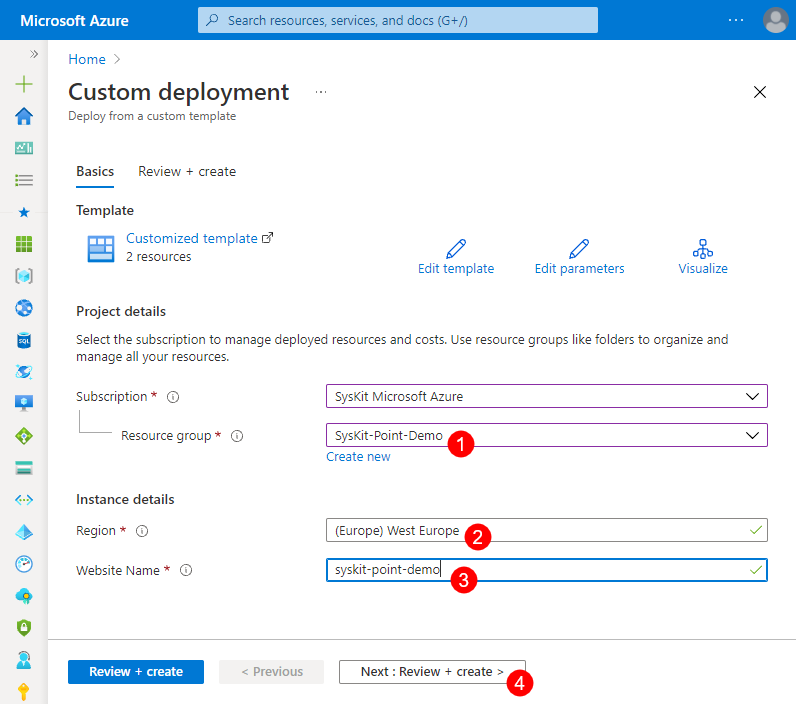
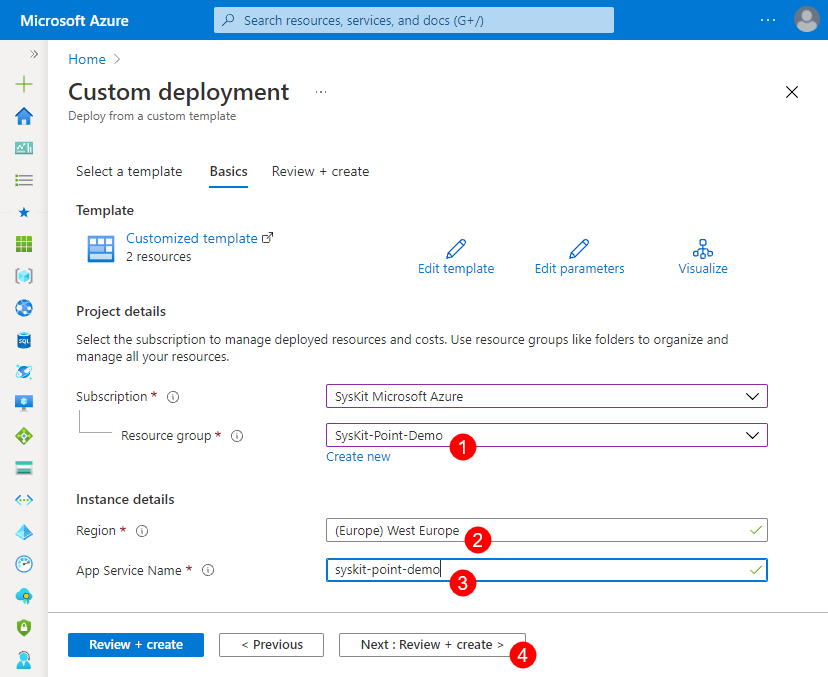
upgrade article update

diff --git a/installation/upgrade-syskit-point.md b/installation/upgrade-syskit-point.md
@@ -33,7 +33,7 @@ The **Custom deployment** screen in Azure Portal opens.
 Here you need to:
 * **Select the Resource group (1)** wherein the current SysKit Point version is deployed
 * **Select Region (2)** - use the location of your currently deployed SysKit Point resources
-* **Enter Website Name (3)** - enter the App Service resource Name; you can **find the App Service name (5)** by navigating to the Overview screen of SysKit Point resource group
+* **Enter App service Name (3)** - enter the App Service resource Name; you can **find the App Service name (5)** by navigating to the Overview screen of SysKit Point resource group
 * **Click Next: Review + create > (4)** - Review + create screen opens showing entered data; check that the entered data is correct and click **Create**
 
 ![Azure Portal - Custom Deployment](../.gitbook/assets/upgrade-syskit-point_custom-deployment.png)
